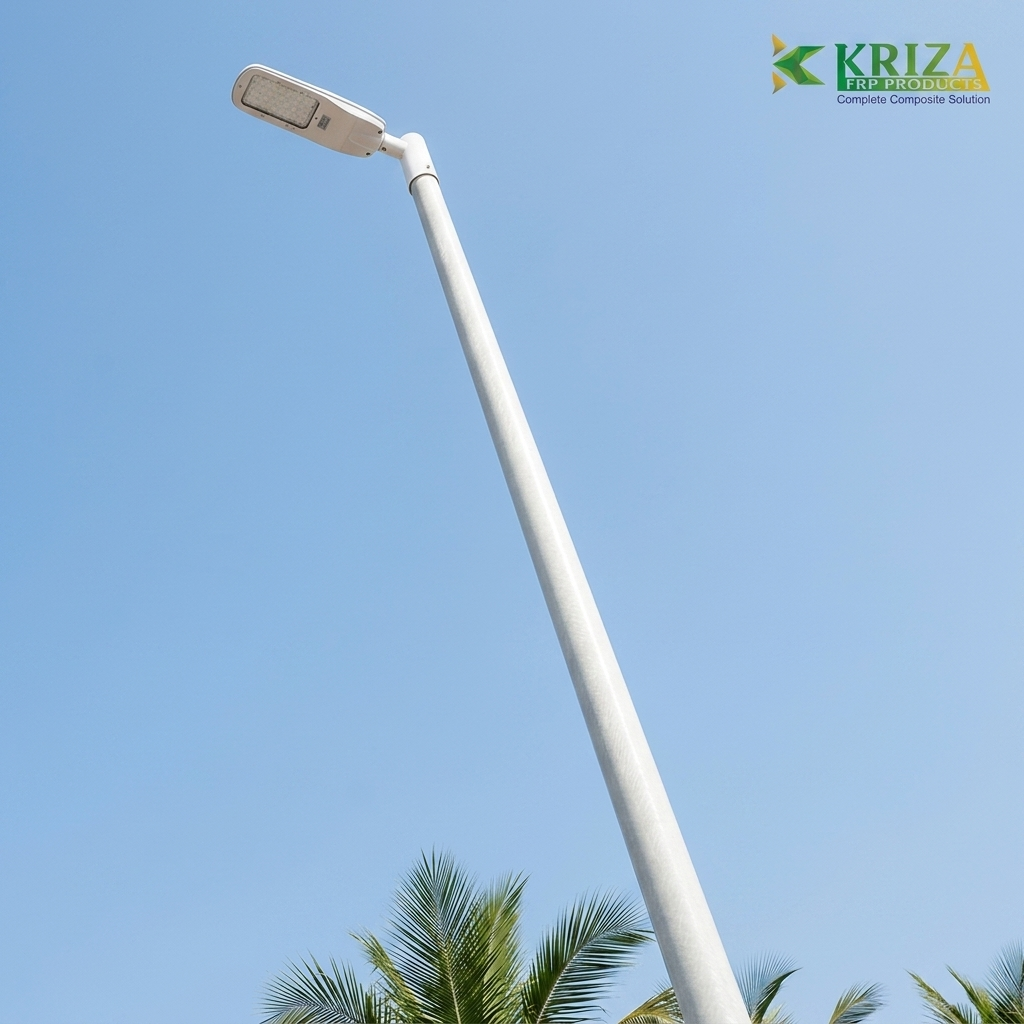
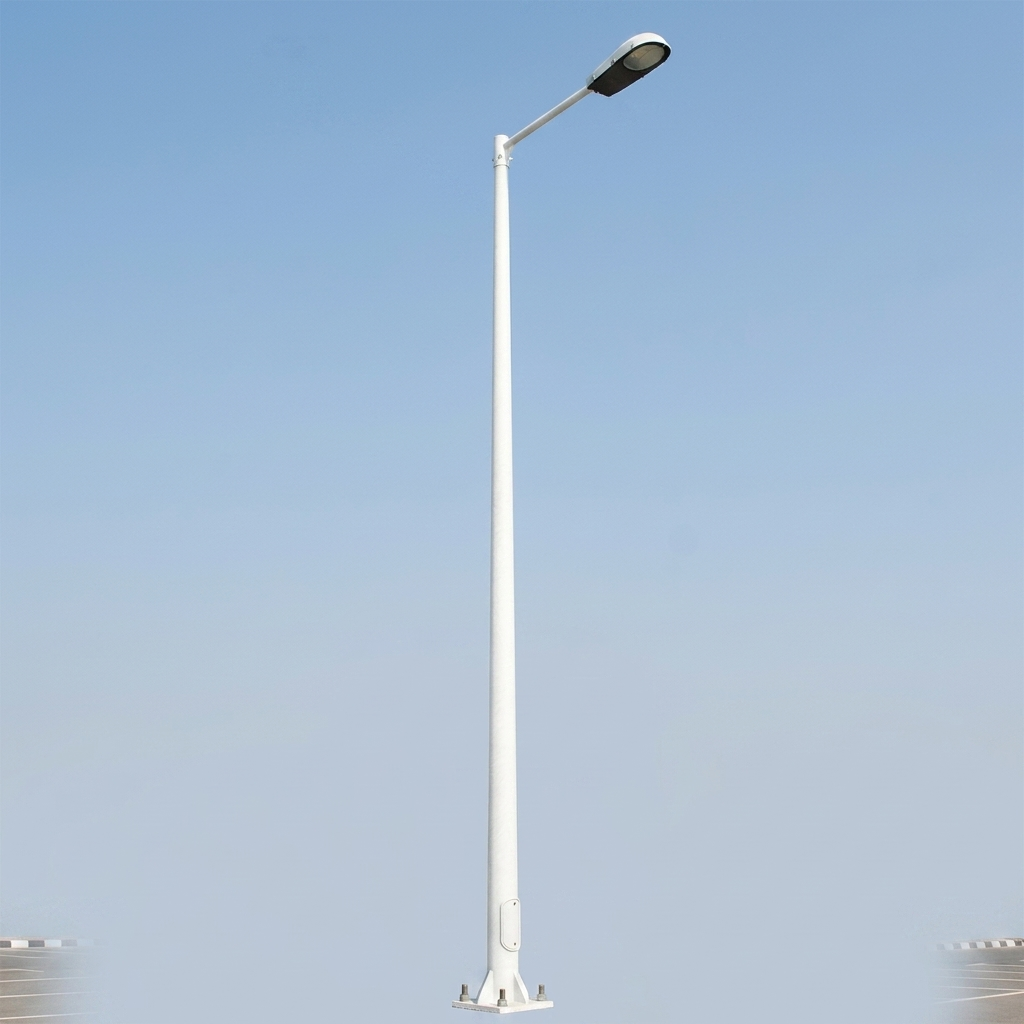
Adjusted FRP Poles card layout to prevent image cutoff

diff --git a/products.html b/products.html
@@ -388,8 +388,8 @@
 <!-- Product Card 5: Poles -->
 <article data-category="frp-poles" data-popularity="6" data-id="5" class="bg-surface-container-lowest border border-outline-variant rounded-DEFAULT overflow-hidden group hover:shadow-[0_8px_16px_rgba(0,0,0,0.05)] transition-all duration-300 flex flex-col relative bento-card reveal reveal-delay-2">
 <div class="absolute top-0 left-0 w-full h-1 bg-secondary-fixed scale-x-0 group-hover:scale-x-100 transition-transform origin-left z-10"></div>
-<div class="h-48 bg-surface-variant relative overflow-hidden">
-<img alt="FRP Poles" class="w-full h-full object-cover group-hover:scale-105 transition-transform duration-500 object-center" src="assets/frp_poles.png"/>
+<div class="h-48 bg-[#e5efff] relative overflow-hidden">
+<img alt="FRP Poles" class="w-full h-full object-contain group-hover:scale-105 transition-transform duration-500" src="assets/frp_poles.png"/>
 </div>
 <div class="p-6 flex-grow flex flex-col">
 <h2 class="font-headline-md text-headline-md text-primary mb-2">FRP Poles</h2>
